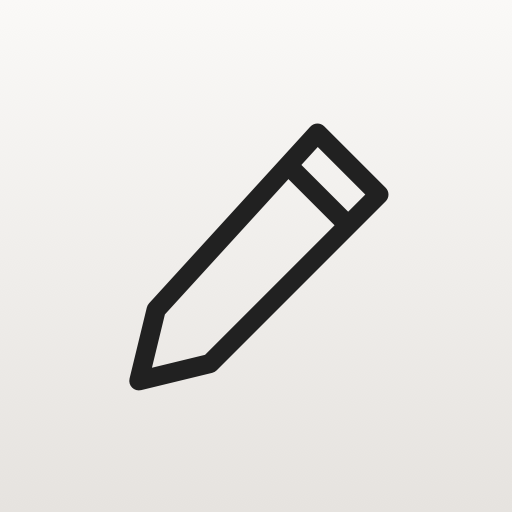
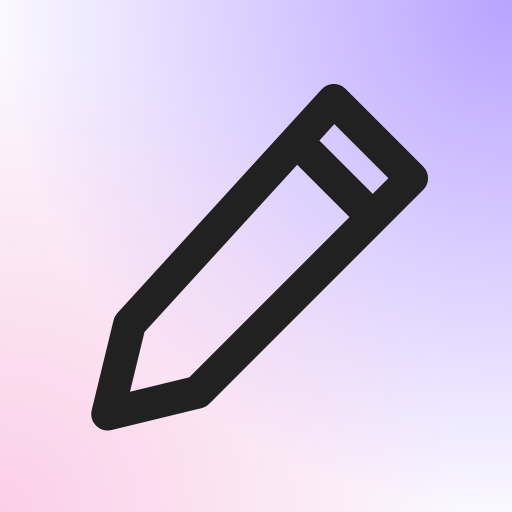
feat(opensmartpen): the profile picture is gentle and has a bigger pencil
At 20 pixels the app icon's pencil was a thin grey mark. The profile
picture now has a near-white plate with violet and pink tints, and a
pencil that is bigger and has the menubar stroke.

diff --git a/app/scripts/make-icon.swift b/app/scripts/make-icon.swift
@@ -21,6 +21,8 @@ let plate = NSRect(x: 100, y: 100, width: 824, height: 824)
 let cornerRadius: CGFloat = 185
 
 let ink = NSColor(calibratedWhite: 0.13, alpha: 1)
+let avatarViolet = NSColor(srgbRed: 0.545, green: 0.424, blue: 1, alpha: 1)
+let avatarPink = NSColor(srgbRed: 1, green: 0.722, blue: 0.851, alpha: 1)
 let plateTop = NSColor(calibratedRed: 0.98, green: 0.976, blue: 0.969, alpha: 1)
 let plateBottom = NSColor(calibratedRed: 0.902, green: 0.890, blue: 0.875, alpha: 1)
 
@@ -41,13 +43,29 @@ func drawIcon(into size: CGFloat, fullBleed: Bool = false) -> NSBitmapImageRep {
     let shape = fullBleed
         ? NSBezierPath(rect: plateRect)
         : NSBezierPath(roundedRect: plateRect, xRadius: cornerRadius * k, yRadius: cornerRadius * k)
-    NSGradient(starting: plateTop, ending: plateBottom)?.draw(in: shape, angle: -90)
+    if fullBleed {
+        // A profile picture is seen at 20 to 40 pixels, on a dark page and on a white one. The
+        // plate is near-white with a violet tint from the top right and a pink one from the
+        // bottom left: gentle, and still a shape of its own on a white page.
+        NSColor(srgbRed: 0.984, green: 0.980, blue: 1, alpha: 1).setFill()
+        shape.fill()
+        for (tint, at, reach) in [(avatarViolet, NSPoint(x: size, y: size), size * 1.0),
+                                  (avatarPink, NSPoint(x: 0, y: 0), size * 0.9)] {
+            NSGradient(starting: tint.withAlphaComponent(0.5), ending: tint.withAlphaComponent(0))?
+                .draw(fromCenter: at, radius: 0, toCenter: at, radius: reach, options: [])
+        }
+    } else {
+        NSGradient(starting: plateTop, ending: plateBottom)?.draw(in: shape, angle: -90)
+    }
 
     // The pencil from StatusIcon, on its own 16-unit grid, blown up to fill the plate.
     //
     // One number is not the menubar's: the 1.35 stroke. It is right at 17 points and reads as a
     // marker at 1024, so it is thinned to 1.0. The shape is what has to match.
-    let grid = plateRect.height * 0.60
+    // The profile picture has a bigger pencil with the menubar's own stroke: both were made for
+    // small sizes.
+    let grid = plateRect.height * (fullBleed ? 0.76 : 0.60)
+    let weight: CGFloat = fullBleed ? 1.35 : 1.0
     let u = grid / 16
     let ox = plateRect.midX - grid / 2
     let oy = plateRect.midY - grid / 2
@@ -70,7 +88,7 @@ func drawIcon(into size: CGFloat, fullBleed: Bool = false) -> NSBitmapImageRep {
     // outside the pencil at this size.
     ink.setStroke()
     for path in [body, ferrule] {
-        path.lineWidth = 1.0 * u
+        path.lineWidth = weight * u
         path.lineCapStyle = path === ferrule ? .butt : .round
         path.lineJoinStyle = .round
         path.stroke()

diff --git a/docs/decisions.md b/docs/decisions.md
@@ -284,3 +284,4 @@ Every panel until this point was written, packaged, installed, and then judged b
 - **No ink drop and no colour.** The drop means pages are waiting, and an icon must not claim a state.
 - **One icon file is committed:** `docs/logo.png`, 512 pixels, written by `scripts/make-icon.swift --logo ../docs/logo.png` from `app/`. The README and GitHub need a file; everything else is still generated at build time.
 - **A second picture fills the whole square:** `docs/avatar.png`, written by `--avatar`. A GitHub profile frames the picture itself, and the app icon's own margin showed there as a tile inside a tile.
+- **The profile picture has its own plate and a bigger pencil.** Near-white, with a violet tint from the top right and a pink one from the bottom left; the pencil is 76% of the square with the menubar stroke of 1.35. It is seen at 20 to 40 pixels, where the app icon's thin pencil was a grey mark. The app icon and the README logo did not change.
